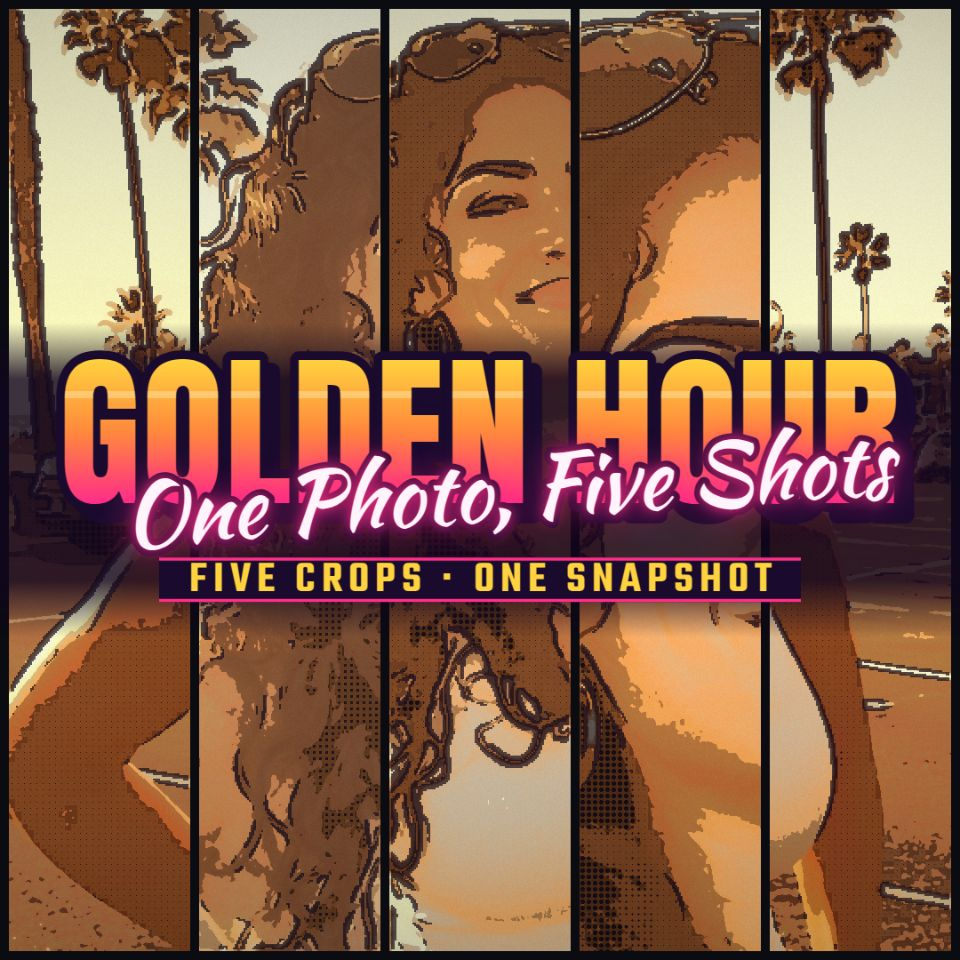
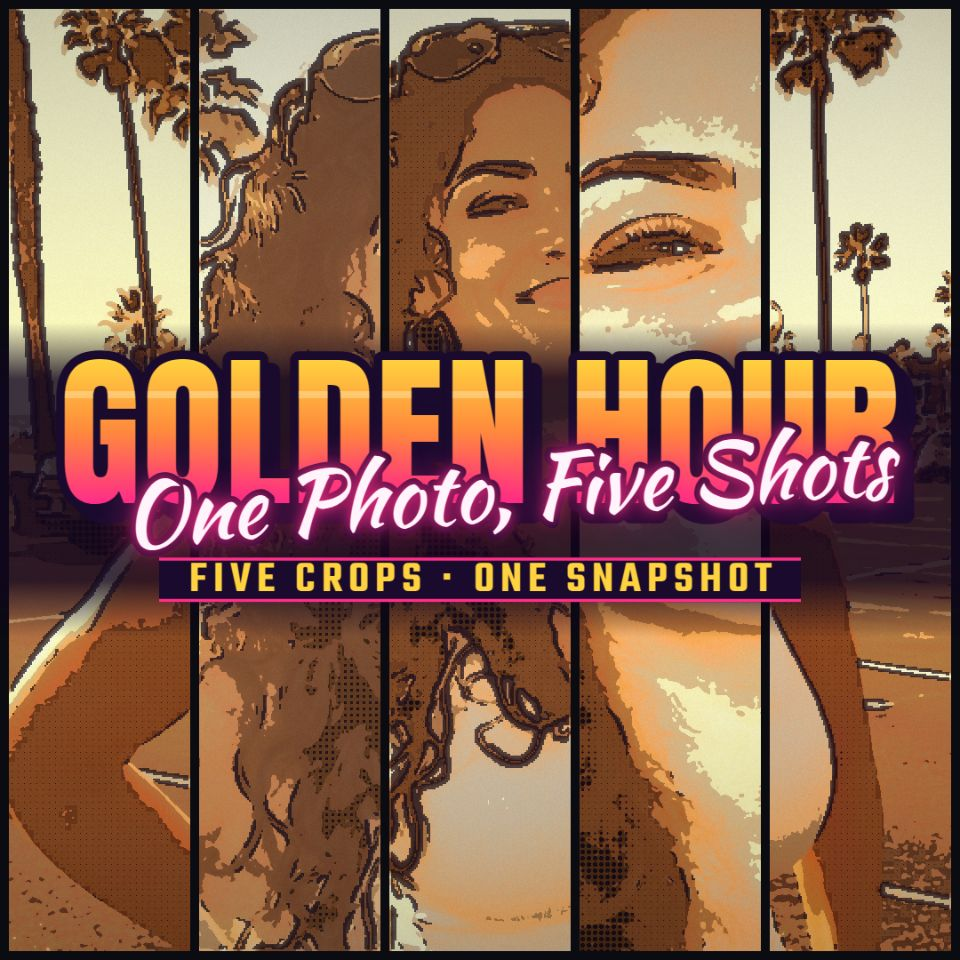
Shot 4: frame the zoom-2.2 strip on the face; NOTES numbers

Changed region(s): [[0.5938, 0.0, 0.8125, 0.375], [0.5938, 0.625, 0.8125, 1.0], [0.5938, 0.5312, 0.625, 0.5625]]

diff --git a/app/src/dev/shot-scenes.js b/app/src/dev/shot-scenes.js
@@ -34,7 +34,7 @@ const SCENES = {
     photos: ['woman-palms'],
     panels: [
       { photo: 0, zoom: 1, fx: 0.1, fy: 0.5 }, { photo: 0, zoom: 1.3, fx: 0.36, fy: 0.32 }, { photo: 0, zoom: 1.0, fx: 0.47, fy: 0.3 },
-      { photo: 0, zoom: 2.2, fx: 0.47, fy: 0.24 }, { photo: 0, zoom: 1, fx: 0.9, fy: 0.5 },
+      { photo: 0, zoom: 2.2, fx: 0.5, fy: 0.32 }, { photo: 0, zoom: 1, fx: 0.9, fy: 0.5 },
     ],
   },
   // Shot 2: the editor with the samples in the tray, Hero + Six, one panel selected, step 3 lit.

diff --git a/NOTES.md b/NOTES.md
@@ -19,12 +19,12 @@
 
 ## Numbers (headless Chromium, this machine)
 - First (uncached) 1920x1080 keyArtNine render with Poster Ink: 185-227 ms. A cached re-render for export takes about 5 ms. A 1080x1350 snapshots cover takes about 70 ms and a 1080x1080 strip about 120 ms.
-- Shots: 1-cover-1920.jpg 1280x720 209.6 KiB (budget 230), 2-editor.jpg 1280x800 159.3 KiB, 3-cover-1080x1350.jpg 864x1080 164.8 KiB, 4-cover-1080.jpg 960x960 166.7 KiB (budget 170 each).
+- Shots: 1-cover-1920.jpg 1280x720 209.6 KiB (budget 230), 2-editor.jpg 1280x800 159.3 KiB, 3-cover-1080x1350.jpg 864x1080 164.8 KiB, 4-cover-1080.jpg 960x960 165.8 KiB (budget 170 each).
 - dossier.json: 1,029,891 bytes, byte-identical across two runs. Kit `check`: 4 passed, 0 failed.
 
 ## Known issues / bugs
 - Night photos with low luminance contrast (pool-neon) can still go flat under sunsetStrip when they sit in very small panels. In shot 1 such photos go in the tall row slots, not the small wide column.
-- Snapshot hit-testing uses the rotated frame, but the selection pill is placed on the unrotated centre.
+- The drop-zone highlight can flicker during a drag, because `dragleave` fires on child elements.
 - Changing the layout re-runs auto-fill, so hand-set crops are lost (undo brings them back).
 - Under `ulimit -v 3000000`, Node 22 cannot start main.ts: its TypeScript-stripping WebAssembly cannot reserve memory. main.ts was run without the limit; it is small.
 - The state is not saved to localStorage yet.
